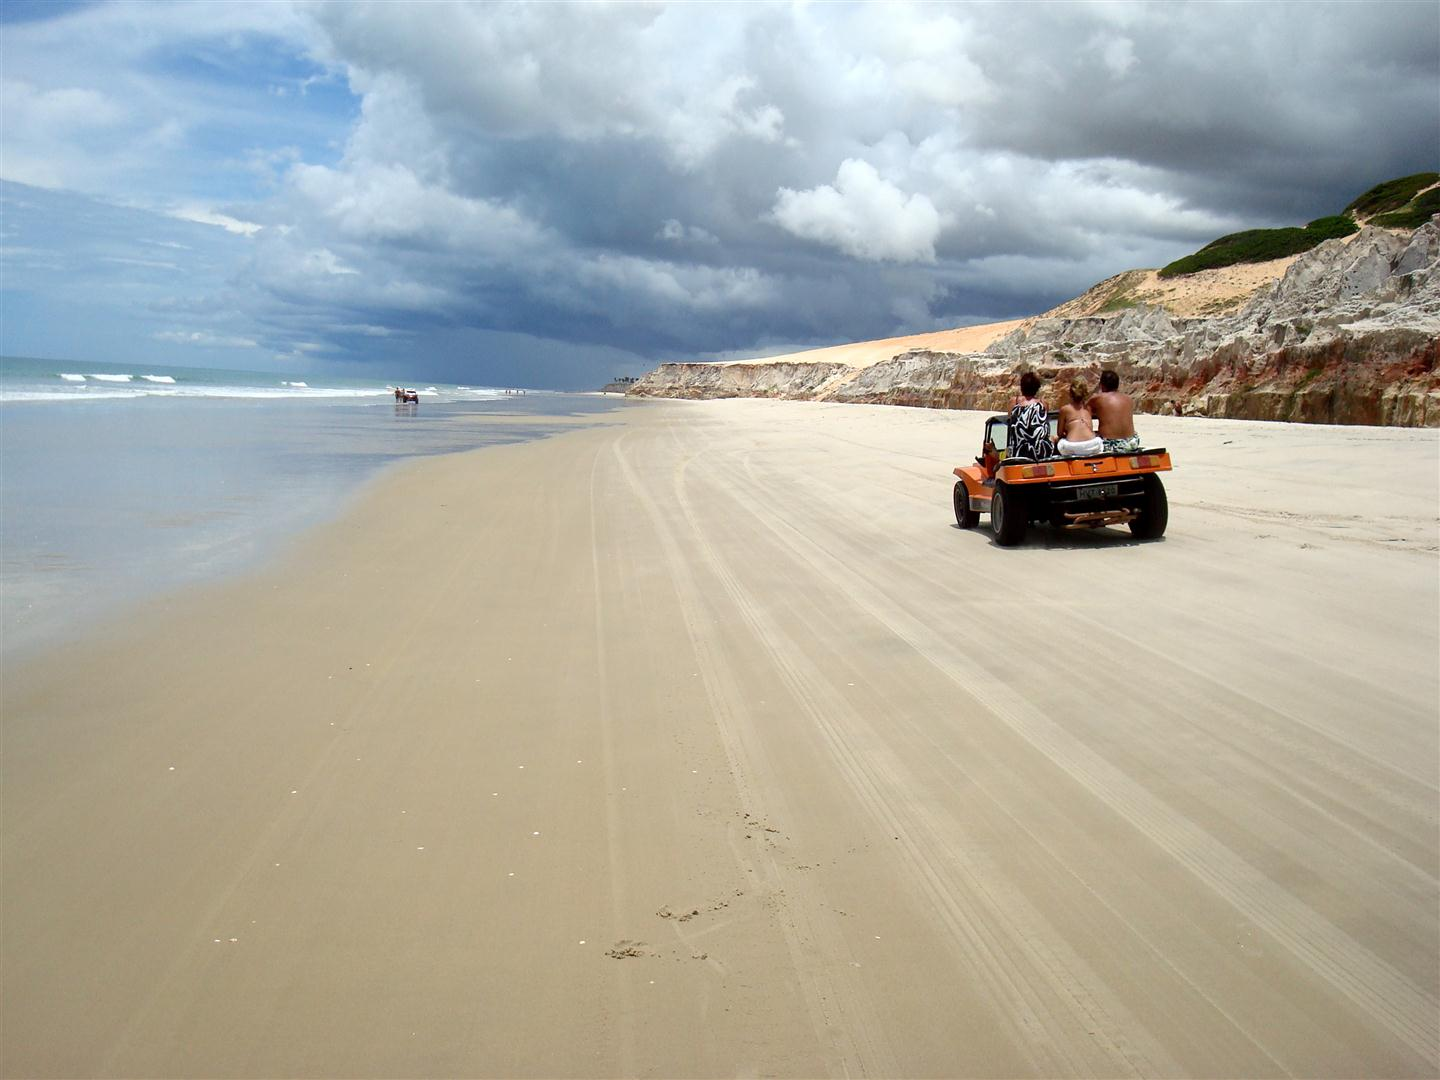
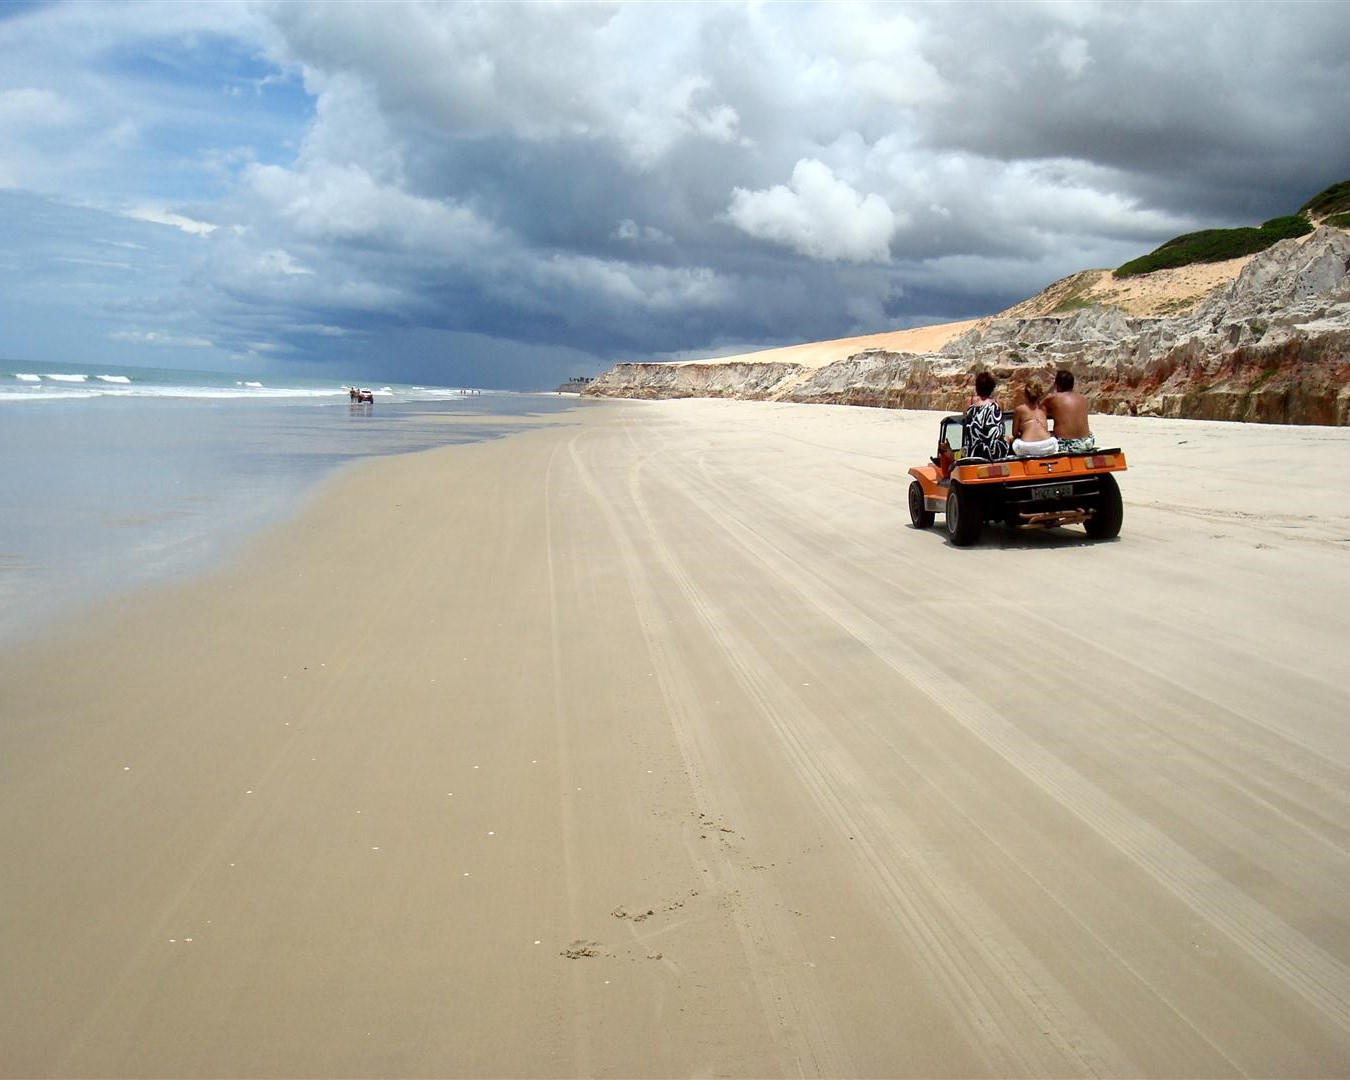
site estável fix bugs images

diff --git a/app/components/Carousel.tsx b/app/components/Carousel.tsx
@@ -14,13 +14,13 @@ export default function ImageCarousel({ images }: ImageCarouselProps) {
 
   const goToPrevious = () => {
     setCurrentIndex((prevIndex) =>
-      prevIndex === 0 ? images.length - 1 : prevIndex - 1
+      prevIndex === 0 ? images.length - 1 : prevIndex - 1,
     );
   };
 
   const goToNext = useCallback(() => {
     setCurrentIndex((prevIndex) =>
-      prevIndex === images.length - 1 ? 0 : prevIndex + 1
+      prevIndex === images.length - 1 ? 0 : prevIndex + 1,
     );
   }, [images.length]);
 
@@ -54,20 +54,28 @@ export default function ImageCarousel({ images }: ImageCarouselProps) {
               >
                 {index === 0 && '3 praias em 1 dia'}
                 {index === 1 && 'Jericoacoara em 1 dia'}
-                {index === 2 && 'City tour'}
+                {index === 2 && 'Beach Park'}
+                {index === 3 && 'City tour'}
               </h1>
               <p className="text-center lg:text-justify p-5 lg:py-5 lg:p-0 lg:w-[70%]">
-                Conheça as belezas de Morro Branco, Praia das Fontes e Canoa
+                {index === 0 &&
+                  `Conheça as belezas de Morro Branco, Praia das Fontes e Canoa
                 Quebrada em um único dia, onde você e sua família podem se
                 deslumbrar das paisagens mais lindas que o nosso Ceará tem a
-                oferecer.
+                oferecer.`}
+                {index === 1 &&
+                  `Venha viver a magia de Jericoacoara em um passeio incrível! Prepare-se para uma experiência única! Em apenas um dia, você vai explorar as maravilhas dessa praia paradisíaca: dunas douradas, lagoas de águas cristalinas e um cenário perfeito para fotos inesquecíveis.`}
+                {index === 2 &&
+                  `Prepare-se para uma experiência única no maior parque aquático à beira-mar da América Latina! Localizado em Porto das Dunas, a apenas 22 km de Fortaleza, o Beach Park oferece mais de 30 atrações para todas as idades.`}
+                {index === 3 &&
+                  `Fortaleza é uma mistura de história, cultura e belezas naturais! Em nosso city tour, você vai visitar os pontos turísticos mais famosos. Acompanhe um guia especializado e descubra os segredos dessa cidade vibrante, que combina tradição e modernidade`}
               </p>
               <a
                 href="https://wa.me/5585981781918?text=Ol%C3%A1!%20Gostaria%20de%20agendar%20um%20passeio"
-                className="mx-auto px-10 py-1 gap-1  cursor-pointer text-gray-100 hover:bg-green-600 flex bg-green-500 rounded-lg  items-center justify-center w-fit lg:mx-0 lg:mt-5"
+                className="mx-auto px-6 py-1 gap-1 font-bold cursor-pointer text-gray-100 hover:bg-green-600 flex bg-green-500 rounded-lg  items-center justify-center w-fit lg:mx-0 lg:mt-5"
               >
-                <FaWhatsapp className="" />
-                Reserve Já
+                <FaWhatsapp  />
+                Conheça todos os pacotes!
               </a>
             </div>
             <Image
@@ -83,13 +91,13 @@ export default function ImageCarousel({ images }: ImageCarouselProps) {
 
       <button
         onClick={goToPrevious}
-        className="absolute top-1/2 left-4 transform -translate-y-1/2 bg-black/50 text-white p-3 rounded-full hover:bg-black/70"
+        className="absolute top-1/2 left-4 transform -translate-y-1/2 bg-black/10 text-white p-3 rounded-full hover:bg-black/30"
       >
         <FaChevronLeft />
       </button>
       <button
         onClick={goToNext}
-        className="absolute top-1/2 right-4 transform -translate-y-1/2 bg-black/50 text-white p-3 rounded-full hover:bg-black/70"
+        className="absolute top-1/2 right-4 transform -translate-y-1/2 bg-black/10 text-white p-3 rounded-full hover:bg-black/30"
       >
         <FaChevronRight />
       </button>

diff --git a/app/components/Footer.tsx b/app/components/Footer.tsx
@@ -7,7 +7,7 @@ import cadastur from '../assets/cadastur.png';
 
 const Footer = () => {
   return (
-    <footer className="px-3 bg-gray-900 text-white py-25 lg:py-10" id='contato'>
+    <footer className="px-3 bg-gray-900 text-white py-25 lg:py-10">
       <div className="flex flex-col items-center justify-center gap-20 lg:gap-100 lg:flex-row">
         <div className="flex lg:flex-row lg:w-[40%] flex-col gap-5 justify-center items-center">
           <Image src={logo} alt="logo" className="w-30" />
@@ -30,16 +30,19 @@ const Footer = () => {
         </div>
       </div>
       <nav className="w-[100%] gap-3 py-10 ">
-        <h2 className="font-bold text-center">Redes sociais</h2>
+        <h2 className="font-bold text-center">Conecte-se</h2>
         <ul className="flex items-center justify-center gap-2 pb-2">
           <li className="cursor-pointer">
             <a href="https://www.instagram.com/listurpasseiosturisticos/">
-              <FaInstagram className="w-7 h-7 hover:text-blue-700 mx-auto" />
+              <FaInstagram className="w-7 h-7 mx-auto" />
             </a>
           </li>
           <li className="cursor-pointer p-2">
-            <a className="grid gap-2 justify-center" href="mailto:listur001@gmail.com">
-              <FaEnvelope className="w-7 h-7 mx-auto" />
+            <a
+              className="grid gap-2 justify-center"
+              href="mailto:listur001@gmail.com"
+            >
+              <FaEnvelope className=" w-7 h-7 mx-auto" />
             </a>
           </li>
         </ul>

diff --git a/app/components/Tour.tsx b/app/components/Tour.tsx
@@ -1,6 +1,6 @@
 import React from 'react';
 import Image from 'next/image';
-import imgfuturo from '../assets/imgpraiafuturo.jpg';
+import imgfuturo from '../../public/imgpraiafuturo2.jpg';
 import imgbeachpark from '../../public/imgbeachpark.jpg';
 import imgpraiadasfontes from '../../public/imgpraiadasfontes.jpg';
 import imgaguasbelas from '../../public/imgaguasbelas.jpg';
@@ -44,7 +44,7 @@ const Tour = () => {
   ];
     //selecionar o id do scroll, 
   return (
-    <div className="bg-blue-50" id='passeios'>
+    <div className="bg-blue-50" id="passeios">
       <h1 className="text-center bg-blue-50 text-blue-950 font-bold text-2xl py-10 pt-10">
         Reserve sua próxima viagem
       </h1>
@@ -53,14 +53,13 @@ const Tour = () => {
           <a
             href="https://wa.me/5585981781918?text=Ol%C3%A1!%20Gostaria%20de%20agendar%20um%20passeio"
             key={index}
-            className="relative group "
+            className="relative group"
           >
             <Image
-              objectFit="fill"
-              className="h-[200px] md:h-[300px] lg:h-[400px] opacity-100"
+              className="object-cover h-[200px] md:h-[300px] lg:h-[400px] opacity-100"
               src={item.img}
               alt={item.desc}
-              layout="auto"
+              priority
             />
             <div className="absolute inset-0 bg-black/20 flex items-center justify-center hover:backdrop-brightness-50 overflow-hidden">
               <div className="">

diff --git a/app/components/AboutUs.tsx b/app/components/AboutUs.tsx
@@ -1,7 +1,7 @@
 import React from 'react';
 import 'animate.css';
 import Image from 'next/image';
-import buggy from '../../public/buggy.jpeg'
+import buggy from '../../public/buggy.jpeg';
 import { poppins } from '../fonts';
 
 const AboutUs = () => {
@@ -21,7 +21,7 @@ const AboutUs = () => {
         >
           Explore o mundo com a LisTur
         </h1>
-        <p className="text-justify pb-3 text-base/7">
+        <p className="text-justify pb-3">
           Bem-vindo à nossa agência de turismo, onde a beleza das praias de
           Fortaleza e região ganha vida! Somos uma equipe apaixonada por
           compartilhar o que há de melhor no litoral cearense, oferecendo
@@ -38,11 +38,11 @@ const AboutUs = () => {
             roteiros sob medida, serviços de qualidade e suporte constante
           </strong>
           .
+        </p>
           <p className="italic text-[#0082ca] pt-5 text-start">
             É o cenário ideal para quem busca diversão, relaxamento e novas
             descobertas.
           </p>
-        </p>
       </div>
     </section>
   );

diff --git a/app/components/Contact.tsx b/app/components/Contact.tsx
@@ -1,0 +1,23 @@
+import { FaWhatsapp } from "react-icons/fa6";
+import 'animate.css';
+
+const Contact = () => {
+  return (
+    <section className="text-center bg-black/80 py-20 text-white flex flex-col items-center" id="contato">
+      <h1 className="pb-5 font-bold text-2xl">Planeje Sua Viagem Conosco!</h1>
+      <p>
+        Quer saber mais sobre nossos passeios e pacotes? Entre em contato com
+        nossa equipe e prepare-se para uma experiência única em Fortaleza!
+      </p>
+      <a
+        href="https://wa.me/5585981781918?text=Ol%C3%A1!%20Gostaria%20de%20agendar%20um%20passeio"
+        className="animate__animated animate__fadeInLeft animate__slower mx-auto px-10 py-1 gap-1 cursor-pointer text-gray-100 hover:bg-green-600 flex bg-green-500 rounded-lg  items-center justify-center w-fit lg:mx-0 lg:mt-5 font-bold"
+      >
+        <FaWhatsapp className="" />
+        Fale com nossa equipe!
+      </a>
+    </section>
+  );
+};
+
+export default Contact;

diff --git a/app/page.tsx b/app/page.tsx
@@ -1,6 +1,7 @@
 import Header from './components/Header';
 import Tour from './components/Tour';
 import AboutUs from './components/AboutUs';
+import Contact from './components/Contact';
 import Footer from './components/Footer';
 import imgfuturo from './assets/imgpraiafuturo.jpg'
 import Carousel from './components/Carousel';
@@ -10,8 +11,9 @@ import Carousel from './components/Carousel';
 export default function Home() {
       const imageUrls = [
         '/carousel.png',
-        '/carousel.png',
-        '/carousel.png',
+        '/carrossel3.png',
+        '/carrossel4.png',
+        '/carrossel2.png',
       ];
   return (
     <>
@@ -22,6 +24,7 @@ export default function Home() {
         <Carousel images={imageUrls} />
         <AboutUs />
         <Tour />
+        <Contact/>
       </main>
       <Footer />
     </>

diff --git a/app/components/RedirectLink.tsx b/app/components/RedirectLink.tsx
@@ -1,4 +1,5 @@
 import { FaWhatsapp } from 'react-icons/fa';
+import 'animate.css';
 
 const RedirectLink = ({icon='true'}) => {
   return (
@@ -7,7 +8,7 @@ const RedirectLink = ({icon='true'}) => {
       rel="noopener noreferrer"
       className={`fixed bottom-4 right-4 text-white p-3 ${
         icon
-          ? 'shadow-lg rounded-full bg-green-500 hover:bg-green-600 transition-all'
+          ? 'shadow-lg rounded-full animate__animated animate__pulse animate__infinite infinite bg-green-500 hover:bg-green-600 transition-all'
           : 'bg-white opacity-80'
       }`}
     >

diff --git a/app/components/Header.tsx b/app/components/Header.tsx
@@ -17,8 +17,6 @@ const Header = ({ bgImage }: HeaderProps) => {
         <Image
           src={bgImage}
           alt="Background Header"
-          layout="fill"
-          objectFit="cover"
           priority
         />
         <div className="absolute inset-0 bg-black/50"></div>{' '}
